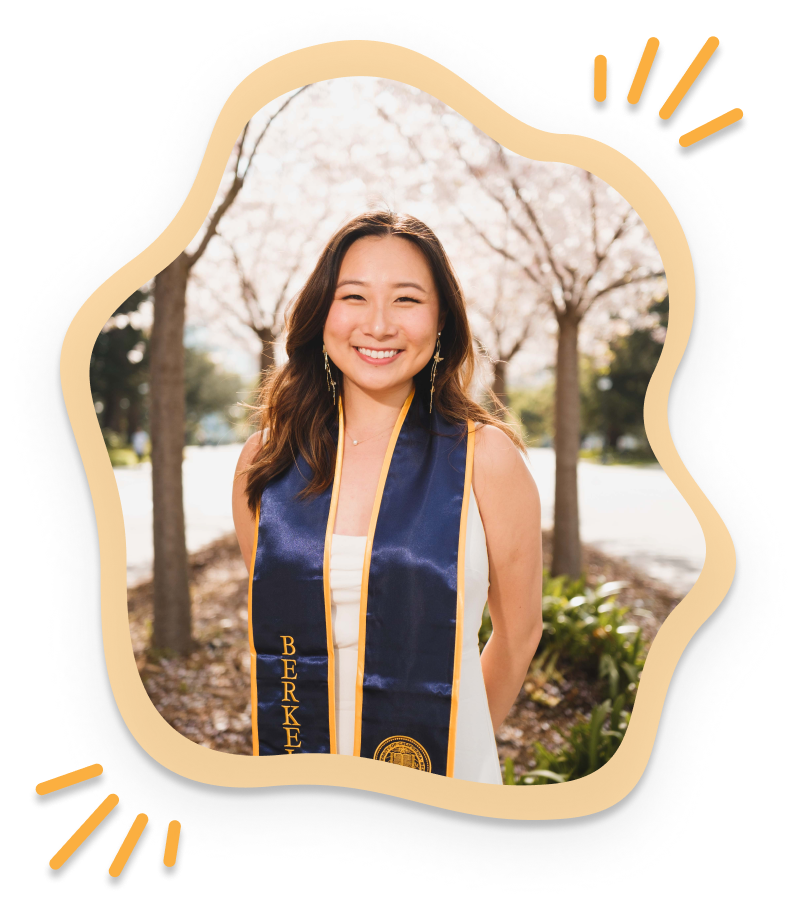
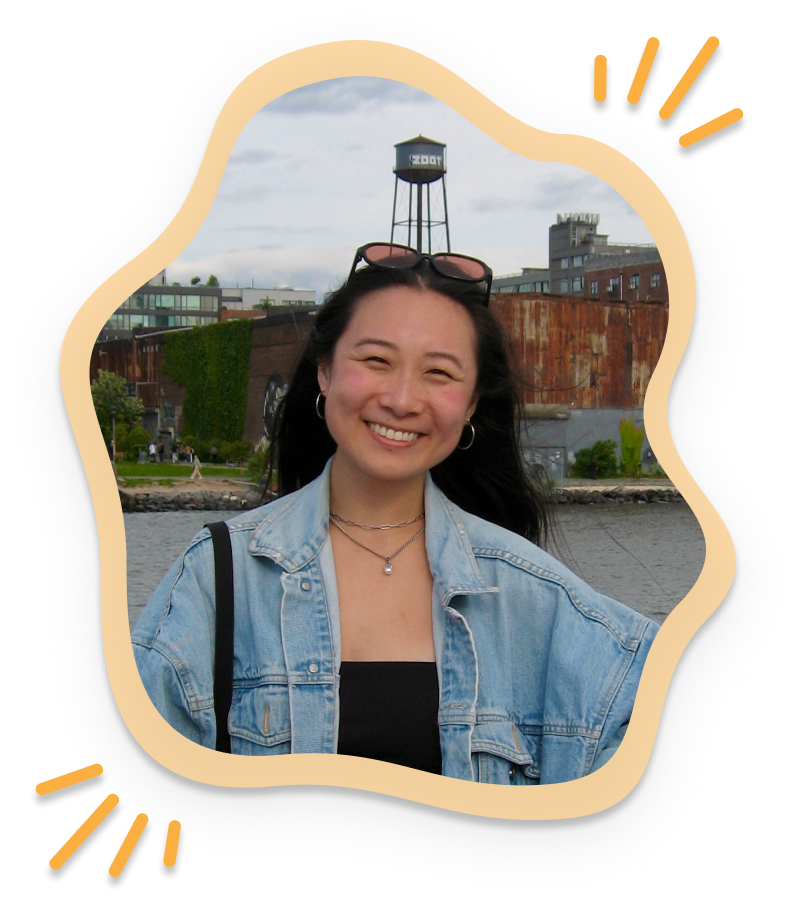
some more life updates + get rid of my grad pic

diff --git a/about.html b/about.html
@@ -73,26 +73,26 @@
 
     <div class="hero-about" data-aos="fade-up">
         <div id="about-desc">
-          <h1> a former berkeley bear doing her best 🧸 </h1>
-          <h3>tl;dr: a bit about me</h3>
+          <h1> tl;dr: a bit about me 🧸 </h1>
+          <!-- <h3>tl;dr: a bit about me</h3> -->
           <p>
             i'm ali, a nyc-based technical writer on mongodb's server docs team, documenting all things 
-            related to mongodb's core database and developer tools. i stumbled into tech writing while 
-            studying english at cal (go bears and go humanities!) with a few computer science and ux 
-            design courses up my sleeve. <br><br>
-            i'm now also pursuing my m.a. in instructional tech & media at teachers college, exploring 
-            the intersections of design, digital media, and learning. 
+            related to mongodb's core database and developer tools. i studied english at uc berkeley (go bears and go humanities!), 
+            picked up a few computer science and ux design courses along the way, and miraculously ended up where i am today. 
+            <br><br>
+            i'm now pursuing my m.a. in instructional tech & media at teachers college, columbia university, exploring 
+            the intersections of design, digital media, and learning (juggling full-time work and part-time schooling is no joke). 
           </p>
           <h3>some cool things i've done recently</h3>
           <p>
             ✴ i became a <i>published author</i> for the <a class="highlight-link" href="https://www.amazon.com/Official-MongoDB-Guide-scalability-performance-ebook/dp/B0FNNK8GCQ?asin=B0FNNK8GCQ&revisionId=15ffe2dd&format=3&depth=1" target="_blank">
-              official mongodb guide</a>. <br>
-            ✴ i started grad school!
+              official mongodb guide</a>! <br>
+            ✴ i started grad school!! <br>
+            * i qualified for the 2026 nyc marathon!!! 
           </p>
           <h3>currently...</h3>
           <p>
             🎧 listening to <a class="highlight-link" href="https://open.spotify.com/playlist/2izAy6exfI7ypG6biBDo2G?si=51cca6f157e64f28" target="_blank">asot: ali's state of trance</a><br>
-            🐎 prepping to run the 2026 nyc marathon <br>
             💐 embracing my quarter life crisis
           </p>
         </div>
